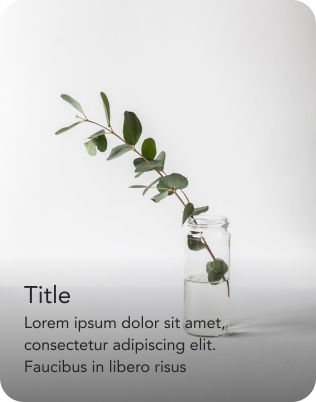
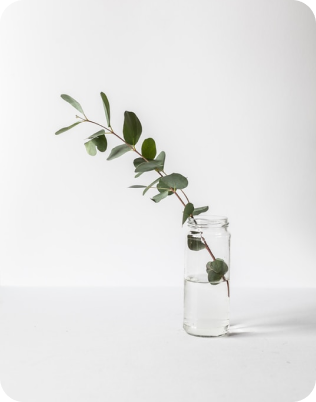
Add ag, ai

Changed region(s): [[0.0, 0.6866, 1.0, 1.0]]

diff --git a/ag/index.html b/ag/index.html
@@ -9,59 +9,78 @@
   <body>
     <div class="grid">
       <div class="grid-item">
-        <h1 class="title">Design is the way how you express the feelings</h1>
+        <h1 class="title">
+          Design is the way how <br />
+          you express the feelings
+        </h1>
       </div>
       <div class="grid-item">
         <div class="target">
-          <p class="num">01</p>
-          <p class="text">
-            Lorem ipsum dolor sit amet, consectetur adipiscing elit.
-          </p>
+          <div class="info">
+            <p class="num">01</p>
+            <p class="text">
+              Lorem ipsum dolor sit amet, consectetur adipiscing elit.
+            </p>
+          </div>
           <div style="background-image: url('imgs/ag1.png')" class="img">
-            <p class="sub-title">Title</p>
-            <p class="sub-text">
-              Lorem ipsum dolor sit amet, consectetur adipiscing elit. Faucibus
-              in libero risus
-            </p>
+            <div class="info-target">
+              <p class="sub-title">Title</p>
+              <p class="sub-text">
+                Lorem ipsum dolor sit amet, consectetur adipiscing elit.
+                Faucibus in libero risus
+              </p>
+            </div>
           </div>
         </div>
         <div class="target">
-          <p class="num">02</p>
-          <p class="text">
-            Lorem ipsum dolor sit amet, consectetur adipiscing elit.
-          </p>
+          <div class="info">
+            <p class="num">02</p>
+            <p class="text">
+              Lorem ipsum dolor sit amet, consectetur adipiscing elit.
+            </p>
+          </div>
           <div style="background-image: url('imgs/ag2.png')" class="img">
-            <p class="sub-title">Title</p>
-            <p class="sub-text">
-              Lorem ipsum dolor sit amet, consectetur adipiscing elit. Faucibus
-              in libero risus
-            </p>
+            <div class="info-target">
+              <p class="sub-title">Title</p>
+              <p class="sub-text">
+                Lorem ipsum dolor sit amet, consectetur adipiscing elit.
+                Faucibus in libero risus
+              </p>
+            </div>
           </div>
         </div>
         <div class="target">
-          <p class="num">03</p>
-          <p class="text">
-            Lorem ipsum dolor sit amet, consectetur adipiscing elit.
-          </p>
+          <div class="info">
+            <p class="num">03</p>
+            <p class="text">
+              Lorem ipsum dolor sit amet, consectetur adipiscing elit.
+            </p>
+          </div>
           <div style="background-image: url('imgs/ag3.png')" class="img">
-            <p class="sub-title">Title</p>
-            <p class="sub-text">
-              Lorem ipsum dolor sit amet, consectetur adipiscing elit. Faucibus
-              in libero risus
-            </p>
+            <div class="info-target">
+              <p class="sub-title">Title</p>
+              <p class="sub-text">
+                Lorem ipsum dolor sit amet, consectetur adipiscing elit.
+                Faucibus in libero risus
+              </p>
+            </div>
           </div>
         </div>
         <div class="target">
-          <p class="num">04</p>
-          <p class="text">
-            Lorem ipsum dolor sit amet, consectetur adipiscing elit.
-          </p>
-          <div style="background-image: url('imgs/ag4.png')" class="img">
-            <p class="sub-title">Title</p>
-            <p class="sub-text">
-              Lorem ipsum dolor sit amet, consectetur adipiscing elit. Faucibus
-              in libero risus
+          <div class="info">
+            <p class="num">04</p>
+            <p class="text">
+              Lorem ipsum dolor sit amet, consectetur adipiscing elit.
             </p>
+          </div>
+          <div style="background-image: url('imgs/ag4.png')" class="img">
+            <div class="info-target">
+              <p class="sub-title">Title</p>
+              <p class="sub-text">
+                Lorem ipsum dolor sit amet, consectetur adipiscing elit.
+                Faucibus in libero risus
+              </p>
+            </div>
           </div>
         </div>
       </div>

diff --git a/ai/index.html b/ai/index.html
@@ -1,0 +1,55 @@
+<!DOCTYPE html>
+<html lang="es">
+  <head>
+    <meta charset="UTF-8" />
+    <meta name="viewport" content="width=device-width, initial-scale=1.0" />
+    <link rel="stylesheet" href="index.css" />
+    <title>Landing Page 9</title>
+  </head>
+  <body>
+    <div class="grid">
+      <div class="grid-item">
+        <h1 class="title">Interior design</h1>
+        <p class="text">
+          Lorem ipsum dolor sit amet, consectetur adipiscing elit. Faucibus in
+          libero risus semper habitant arcu eget. Et integer facilisi eget.
+        </p>
+        <a href="#" class="btn">Explore</a>
+      </div>
+      <div class="grid-item">
+        <img src="ai2.png" alt="img-2" />
+      </div>
+      <div class="grid-item">
+        <img src="ai1.png" alt="img-1" />
+      </div>
+      <div class="grid-item">
+        <div class="container-info">
+          <div class="info">
+            <p class="num">5.8</p>
+            <hr />
+            <p class="sub-text">
+              Lorem ipsum dolor sit amet, consectetur adipiscing elit. Faucibus
+              in libero risus semper habitant arcu eget.
+            </p>
+          </div>
+          <div class="info">
+            <p class="num">99+</p>
+            <hr />
+            <p class="sub-text">
+              Lorem ipsum dolor sit amet, consectetur adipiscing elit. Faucibus
+              in libero risus semper habitant arcu eget.
+            </p>
+          </div>
+          <div class="info">
+            <p class="num">110K</p>
+            <hr />
+            <p class="sub-text">
+              Lorem ipsum dolor sit amet, consectetur adipiscing elit. Faucibus
+              in libero risus semper habitant arcu eget.
+            </p>
+          </div>
+        </div>
+      </div>
+    </div>
+  </body>
+</html>

diff --git a/ai/index.css b/ai/index.css
@@ -1,0 +1,88 @@
+@import url("https://fonts.googleapis.com/css2?family=Poppins:ital,wght@0,300;0,400;0,600;0,700;1,300;1,400;1,600;1,700&display=swap");
+
+* {
+  margin: 0;
+  box-sizing: border-box;
+}
+
+body {
+  background: rgb(214, 214, 214);
+  background: linear-gradient(
+    90deg,
+    rgba(214, 214, 214, 1) 0%,
+    rgba(155, 166, 166, 1) 100%
+  );
+  font-family: "Poppins", sans-serif;
+  color: #363830;
+}
+
+.grid {
+  display: grid;
+  grid-template-columns: 1fr;
+}
+
+.grid-item {
+  display: flex;
+  flex-direction: column;
+  align-items: center;
+  gap: 20px;
+  margin: 25px auto;
+}
+
+.title {
+  color: #363830;
+  font-size: 2.5rem;
+  font-weight: bold;
+
+  text-align: center;
+}
+
+.text {
+  width: 80%;
+  text-align: justify;
+}
+
+.btn {
+  text-align: center;
+  text-decoration: none;
+  background-color: #363830;
+  color: white;
+  padding: 6px 25px;
+  border-radius: 35px;
+}
+
+img {
+  width: 80%;
+}
+
+.container-info {
+  display: flex;
+  flex-direction: column;
+  width: 50%;
+  background-color: #b6bebe89;
+  padding: 35px;
+  border-radius: 100px;
+}
+
+.info {
+  display: flex;
+  flex-direction: column;
+  align-items: center;
+  gap: 20px;
+}
+
+hr {
+  border: none;
+  border-radius: 20px;
+  background-color: #363830;
+  width: 25px;
+  height: 3px;
+}
+
+.num {
+  width: min-content;
+}
+
+.sub-text {
+  text-align: justify;
+}

diff --git a/ag/index.css b/ag/index.css
@@ -19,20 +19,88 @@ body {
   flex-direction: column;
   align-items: center;
   margin: 20px auto;
-  gap: 10px;
+  gap: 50px;
+}
+
+.title {
+  text-align: center;
 }
 
 .target {
   width: 100%;
-  height: 400px;
-}
-
-.img {
-  width: 315px;
-  height: 402px;
+  display: flex;
+  flex-direction: column;
+  align-items: center;
+  gap: 20px;
 }
 
 .num {
   color: #252525;
   font-size: 1.5rem;
+}
+
+.info {
+  width: 315px;
+}
+
+.img {
+  width: 315px;
+  height: 402px;
+  border: 1px solid #000;
+  border-radius: 20px;
+  position: relative;
+}
+
+.info-target {
+  position: absolute;
+  top: 70%;
+  background: linear-gradient(
+    0deg,
+    rgba(136, 136, 136, 0.427310890176383) 0%,
+    rgba(255, 255, 255, 0) 100%
+  );
+  border-radius: 20px;
+  padding-left: 20px;
+  display: flex;
+  flex-direction: column;
+  justify-content: center;
+  height: 30%;
+}
+
+.sub-title {
+  font-size: 1.1rem;
+}
+
+.sub-text {
+  font-size: 0.85rem;
+}
+
+@media (min-width: 930px) {
+  .grid {
+    gap: 10px;
+  }
+
+  .grid-item {
+    flex-direction: row;
+    justify-content: center;
+    margin: 0;
+    gap: 0;
+  }
+
+  .target {
+    width: 100%;
+    align-items: start;
+    justify-content: center;
+    margin: 0;
+    padding: 0;
+  }
+
+  .img {
+    width: 80%;
+    height: 402px;
+  }
+
+  .info {
+    width: 80%;
+  }
 }
